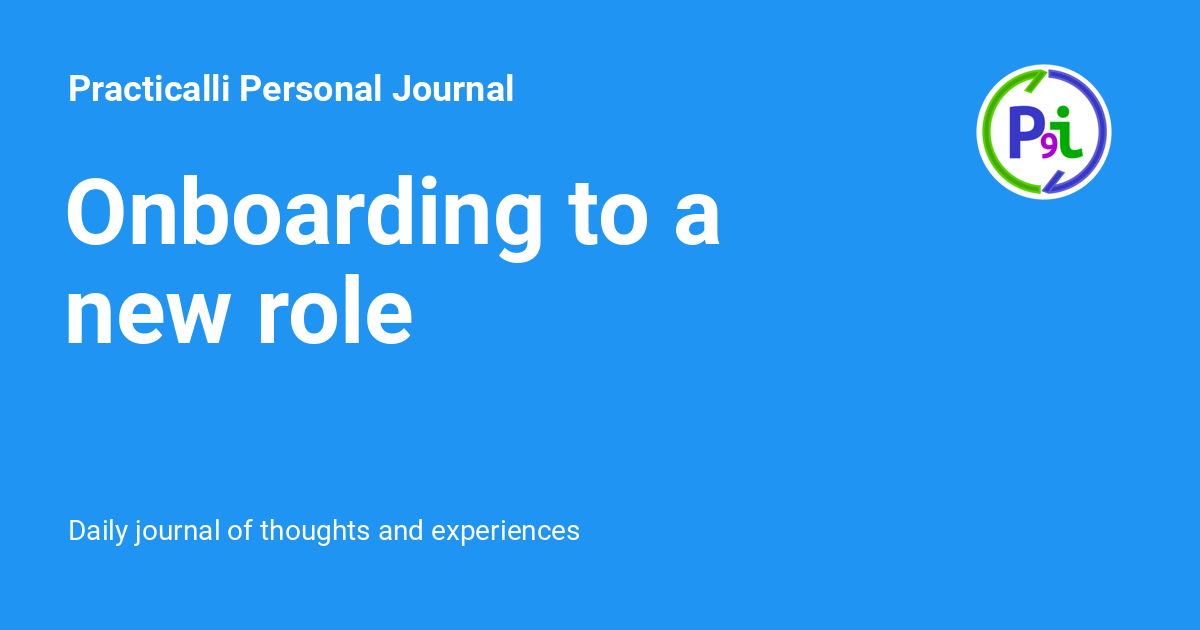
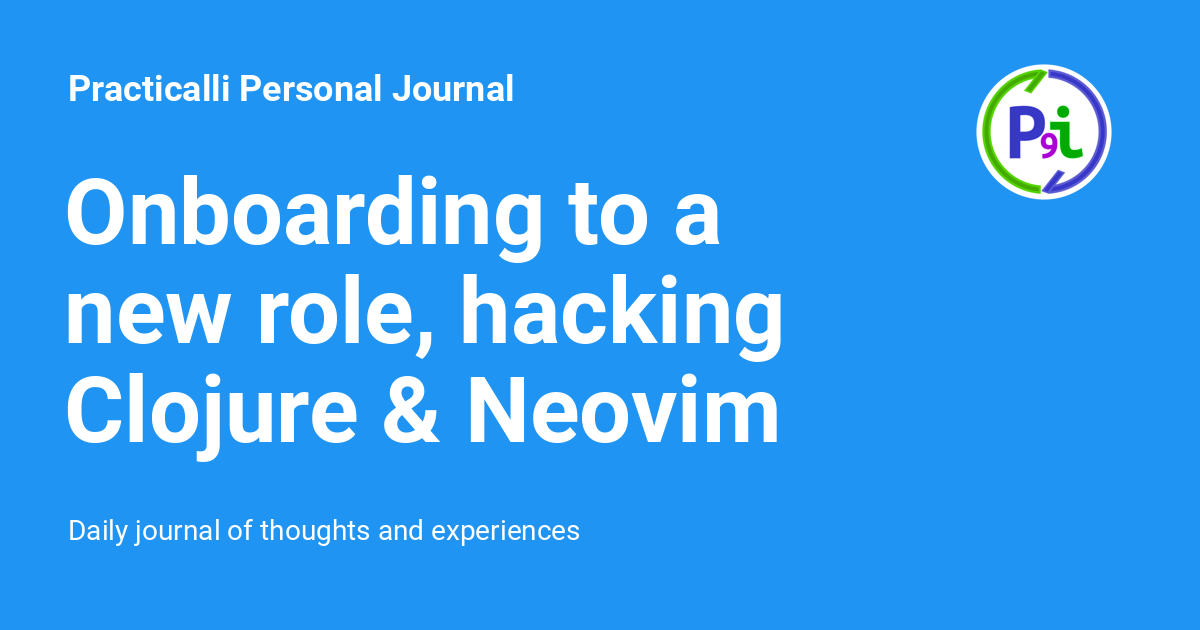
Deployed afde613 with MkDocs version: 1.5.3

Changed region(s): [[0.0308, 0.573, 0.6475, 0.754], [0.3392, 0.4222, 0.6783, 0.573]]

diff --git a/2023/11/22/onboarding-to-a-new-role-hacking-clojure-neovim/index.html b/2023/11/22/onboarding-to-a-new-role-hacking-clojure-neovim/index.html
@@ -12,7 +12,7 @@
         <meta name="author" content="Practicalli">
       
       
-        <link rel="canonical" href="https://practical.li/personal-journal/2023/11/22/onboarding-to-a-new-role/">
+        <link rel="canonical" href="https://practical.li/personal-journal/2023/11/22/onboarding-to-a-new-role-hacking-clojure-neovim/">
       
       
         <link rel="prev" href="../../21/continuing-the-move-to-debian-linux/">
@@ -24,7 +24,7 @@
     
     
       
-        <title>Onboarding to a new role - Practicalli Personal Journal</title>
+        <title>Onboarding to a new role, hacking Clojure & Neovim - Practicalli Personal Journal</title>
       
     
     
@@ -69,7 +69,7 @@
       
         <meta  property="og:type"  content="website" >
       
-        <meta  property="og:title"  content="Onboarding to a new role - Practicalli Personal Journal" >
+        <meta  property="og:title"  content="Onboarding to a new role, hacking Clojure & Neovim - Practicalli Personal Journal" >
       
         <meta  property="og:description"  content="Daily journal of thoughts and experiences" >
       
@@ -81,11 +81,11 @@
       
         <meta  property="og:image:height"  content="630" >
       
-        <meta  property="og:url"  content="https://practical.li/personal-journal/2023/11/22/onboarding-to-a-new-role/" >
+        <meta  property="og:url"  content="https://practical.li/personal-journal/2023/11/22/onboarding-to-a-new-role-hacking-clojure-neovim/" >
       
         <meta  name="twitter:card"  content="summary_large_image" >
       
-        <meta  name="twitter:title"  content="Onboarding to a new role - Practicalli Personal Journal" >
+        <meta  name="twitter:title"  content="Onboarding to a new role, hacking Clojure & Neovim - Practicalli Personal Journal" >
       
         <meta  name="twitter:description"  content="Daily journal of thoughts and experiences" >
       
@@ -150,7 +150,7 @@
         <div class="md-header__topic" data-md-component="header-topic">
           <span class="md-ellipsis">
             
-              Onboarding to a new role
+              Onboarding to a new role, hacking Clojure & Neovim
             
           </span>
         </div>
@@ -646,7 +646,7 @@
   
 
 
-  <h1>Onboarding to a new role</h1>
+  <h1>Onboarding to a new role, hacking Clojure & Neovim</h1>
 
 <p><strong>Thought of the day</strong></p>
 <p>Nervous excitement about starting a new role and hopeful I dont mess it up.</p>
@@ -663,7 +663,7 @@
 <p>The mulog maintainer created the <a href="https://github.com/BrunoBonacci/where">where project</a> to define Human readable conditions to filter data. </p>
 <div class="admonition example">
 <p class="admonition-title">where is a DSL for powerful predicate functions</p>
-<div class="highlight"><pre><span></span><code><a id="__codelineno-0-1" name="__codelineno-0-1" href="#__codelineno-0-1"></a><span class="p">(</span><span class="nf">u/start-publisher!</span>
+<div class="highlight"><pre><span></span><code><a id="__codelineno-0-1" name="__codelineno-0-1" href="#__codelineno-0-1"></a><span class="p">(</span><span class="nf">mulog/start-publisher!</span>
 <a id="__codelineno-0-2" name="__codelineno-0-2" href="#__codelineno-0-2"></a><span class="w">  </span><span class="p">{</span><span class="ss">:type</span><span class="w"> </span><span class="ss">:console</span>
 <a id="__codelineno-0-3" name="__codelineno-0-3" href="#__codelineno-0-3"></a><span class="w">   </span><span class="ss">:pretty?</span><span class="w"> </span><span class="nv">true</span>
 <a id="__codelineno-0-4" name="__codelineno-0-4" href="#__codelineno-0-4"></a><span class="w">   </span><span class="ss">:transform</span>
@@ -689,6 +689,33 @@
 <li><code>:help usr_22</code> has a good introduction</li>
 </ul>
 <p><a class="md-button" href="https://clojurians.slack.com/archives/C0DF8R51A/p1700651248926689" target="_blank">Clojurians Slack - navigating code in neovim discussion</a> </p>
+<div class="admonition todo">
+<p class="admonition-title">Neovim plugin: nvim-treesitter-sexp</p>
+<p>Evalaute the <a href="https://github.com/PaterJason/nvim-treesitter-sexp">nvim-treesitter-sexp</a> plugin with the Practialli AstorNvim User configuration and see if it is a valuable way to navigate Clojure expressions.</p>
+<div class="highlight"><span class="filename">plugins/clojure.lua</span><pre><span></span><code><a id="__codelineno-1-1" name="__codelineno-1-1" href="#__codelineno-1-1"></a><span class="kr">return</span> <span class="p">{</span>
+<a id="__codelineno-1-2" name="__codelineno-1-2" href="#__codelineno-1-2"></a>  <span class="p">{</span>
+<a id="__codelineno-1-3" name="__codelineno-1-3" href="#__codelineno-1-3"></a>    <span class="s2">&quot;PaterJason/nvim-treesitter-sexp&quot;</span><span class="p">,</span>
+<a id="__codelineno-1-4" name="__codelineno-1-4" href="#__codelineno-1-4"></a>    <span class="n">ft</span> <span class="o">=</span> <span class="p">{</span> <span class="s2">&quot;clojure&quot;</span><span class="p">,</span> <span class="s2">&quot;fennel&quot;</span><span class="p">,</span> <span class="s2">&quot;janet&quot;</span> <span class="p">},</span>
+<a id="__codelineno-1-5" name="__codelineno-1-5" href="#__codelineno-1-5"></a>    <span class="n">opts</span> <span class="o">=</span> <span class="p">{</span>
+<a id="__codelineno-1-6" name="__codelineno-1-6" href="#__codelineno-1-6"></a>      <span class="c1">-- configuration:</span>
+<a id="__codelineno-1-7" name="__codelineno-1-7" href="#__codelineno-1-7"></a>      <span class="c1">-- https://github.com/PaterJason/nvim-treesitter-sexp#configuration</span>
+<a id="__codelineno-1-8" name="__codelineno-1-8" href="#__codelineno-1-8"></a>      <span class="n">enabled</span> <span class="o">=</span> <span class="kc">true</span><span class="p">,</span>
+<a id="__codelineno-1-9" name="__codelineno-1-9" href="#__codelineno-1-9"></a>      <span class="n">set_cursor</span> <span class="o">=</span> <span class="kc">true</span><span class="p">,</span>
+<a id="__codelineno-1-10" name="__codelineno-1-10" href="#__codelineno-1-10"></a>      <span class="n">keymaps</span> <span class="o">=</span> <span class="p">{</span>
+<a id="__codelineno-1-11" name="__codelineno-1-11" href="#__codelineno-1-11"></a>        <span class="n">commands</span> <span class="o">=</span> <span class="p">{</span>
+<a id="__codelineno-1-12" name="__codelineno-1-12" href="#__codelineno-1-12"></a>          <span class="n">promote_elem</span> <span class="o">=</span> <span class="s2">&quot;&lt;LocalLeader&gt;kO&quot;</span><span class="p">,</span>
+<a id="__codelineno-1-13" name="__codelineno-1-13" href="#__codelineno-1-13"></a>          <span class="n">promote_form</span> <span class="o">=</span> <span class="s2">&quot;&lt;LocalLeader&gt;ko&quot;</span><span class="p">,</span>
+<a id="__codelineno-1-14" name="__codelineno-1-14" href="#__codelineno-1-14"></a>          <span class="n">splice</span> <span class="o">=</span> <span class="s2">&quot;&lt;LocalLeader&gt;k@&quot;</span><span class="p">,</span>
+<a id="__codelineno-1-15" name="__codelineno-1-15" href="#__codelineno-1-15"></a>        <span class="p">},</span>
+<a id="__codelineno-1-16" name="__codelineno-1-16" href="#__codelineno-1-16"></a>        <span class="n">motions</span> <span class="o">=</span> <span class="p">{},</span>
+<a id="__codelineno-1-17" name="__codelineno-1-17" href="#__codelineno-1-17"></a>        <span class="n">textobjects</span> <span class="o">=</span> <span class="p">{},</span>
+<a id="__codelineno-1-18" name="__codelineno-1-18" href="#__codelineno-1-18"></a>      <span class="p">},</span>
+<a id="__codelineno-1-19" name="__codelineno-1-19" href="#__codelineno-1-19"></a>    <span class="p">},</span>
+<a id="__codelineno-1-20" name="__codelineno-1-20" href="#__codelineno-1-20"></a>  <span class="p">},</span>
+<a id="__codelineno-1-21" name="__codelineno-1-21" href="#__codelineno-1-21"></a><span class="p">}</span>
+</code></pre></div>
+<p>If the plugin is successful, add it to the AstroNvim Community Clojure pack</p>
+</div>
 <h2 id="new-role">New role<a class="headerlink" href="#new-role" title="Permanent link">λ</a></h2>
 <p>I'm starting a new role (references allowing) as an Engineering Manager at a very nice Fintech company.</p>
 <p>I've signed a contract and started completing the inital onboarding forms.  Hopefully the people I have put as references have positive things to say about me and the company is satisfied.</p>

diff --git a/2023/11/21/continuing-the-move-to-debian-linux/index.html b/2023/11/21/continuing-the-move-to-debian-linux/index.html
@@ -18,7 +18,7 @@
         <link rel="prev" href="../../../../2018/12/29/day-106-tictactoe-for-virtual-study-group/">
       
       
-        <link rel="next" href="../../22/onboarding-to-a-new-role/">
+        <link rel="next" href="../../22/onboarding-to-a-new-role-hacking-clojure-neovim/">
       
       
       <link rel="icon" href="../../../../assets/favicon.svg">
@@ -770,13 +770,13 @@
         
         
           
-          <a href="../../22/onboarding-to-a-new-role/" class="md-footer__link md-footer__link--next" aria-label="Next: Onboarding to a new role">
+          <a href="../../22/onboarding-to-a-new-role-hacking-clojure-neovim/" class="md-footer__link md-footer__link--next" aria-label="Next: Onboarding to a new role, hacking Clojure &amp; Neovim">
             <div class="md-footer__title">
               <span class="md-footer__direction">
                 Next
               </span>
               <div class="md-ellipsis">
-                Onboarding to a new role
+                Onboarding to a new role, hacking Clojure & Neovim
               </div>
             </div>
             <div class="md-footer__button md-icon">

diff --git a/archive/2023/index.html b/archive/2023/index.html
@@ -558,13 +558,13 @@
     </div>
   </header>
   <div class="md-post__content md-typeset">
-    <h2 id="onboarding-to-a-new-role"><a class="toclink" href="../../2023/11/22/onboarding-to-a-new-role/">Onboarding to a new role</a></h2>
+    <h2 id="onboarding-to-a-new-role-hacking-clojure-neovim"><a class="toclink" href="../../2023/11/22/onboarding-to-a-new-role-hacking-clojure-neovim/">Onboarding to a new role, hacking Clojure &amp; Neovim</a></h2>
 <p><strong>Thought of the day</strong></p>
 <p>Nervous excitement about starting a new role and hopeful I dont mess it up.</p>
 <p>Enjoying writing a regular journal again, which is something I missed when not working.</p>
 
     <nav class="md-post__action">
-      <a href="../../2023/11/22/onboarding-to-a-new-role/">
+      <a href="../../2023/11/22/onboarding-to-a-new-role-hacking-clojure-neovim/">
         Continue reading
       </a>
     </nav>

diff --git a/category/journal/index.html b/category/journal/index.html
@@ -558,13 +558,13 @@
     </div>
   </header>
   <div class="md-post__content md-typeset">
-    <h2 id="onboarding-to-a-new-role"><a class="toclink" href="../../2023/11/22/onboarding-to-a-new-role/">Onboarding to a new role</a></h2>
+    <h2 id="onboarding-to-a-new-role-hacking-clojure-neovim"><a class="toclink" href="../../2023/11/22/onboarding-to-a-new-role-hacking-clojure-neovim/">Onboarding to a new role, hacking Clojure &amp; Neovim</a></h2>
 <p><strong>Thought of the day</strong></p>
 <p>Nervous excitement about starting a new role and hopeful I dont mess it up.</p>
 <p>Enjoying writing a regular journal again, which is something I missed when not working.</p>
 
     <nav class="md-post__action">
-      <a href="../../2023/11/22/onboarding-to-a-new-role/">
+      <a href="../../2023/11/22/onboarding-to-a-new-role-hacking-clojure-neovim/">
         Continue reading
       </a>
     </nav>

diff --git a/index.html b/index.html
@@ -610,13 +610,13 @@
     </div>
   </header>
   <div class="md-post__content md-typeset">
-    <h2 id="onboarding-to-a-new-role"><a class="toclink" href="2023/11/22/onboarding-to-a-new-role/">Onboarding to a new role</a></h2>
+    <h2 id="onboarding-to-a-new-role-hacking-clojure-neovim"><a class="toclink" href="2023/11/22/onboarding-to-a-new-role-hacking-clojure-neovim/">Onboarding to a new role, hacking Clojure &amp; Neovim</a></h2>
 <p><strong>Thought of the day</strong></p>
 <p>Nervous excitement about starting a new role and hopeful I dont mess it up.</p>
 <p>Enjoying writing a regular journal again, which is something I missed when not working.</p>
 
     <nav class="md-post__action">
-      <a href="2023/11/22/onboarding-to-a-new-role/">
+      <a href="2023/11/22/onboarding-to-a-new-role-hacking-clojure-neovim/">
         Continue reading
       </a>
     </nav>
